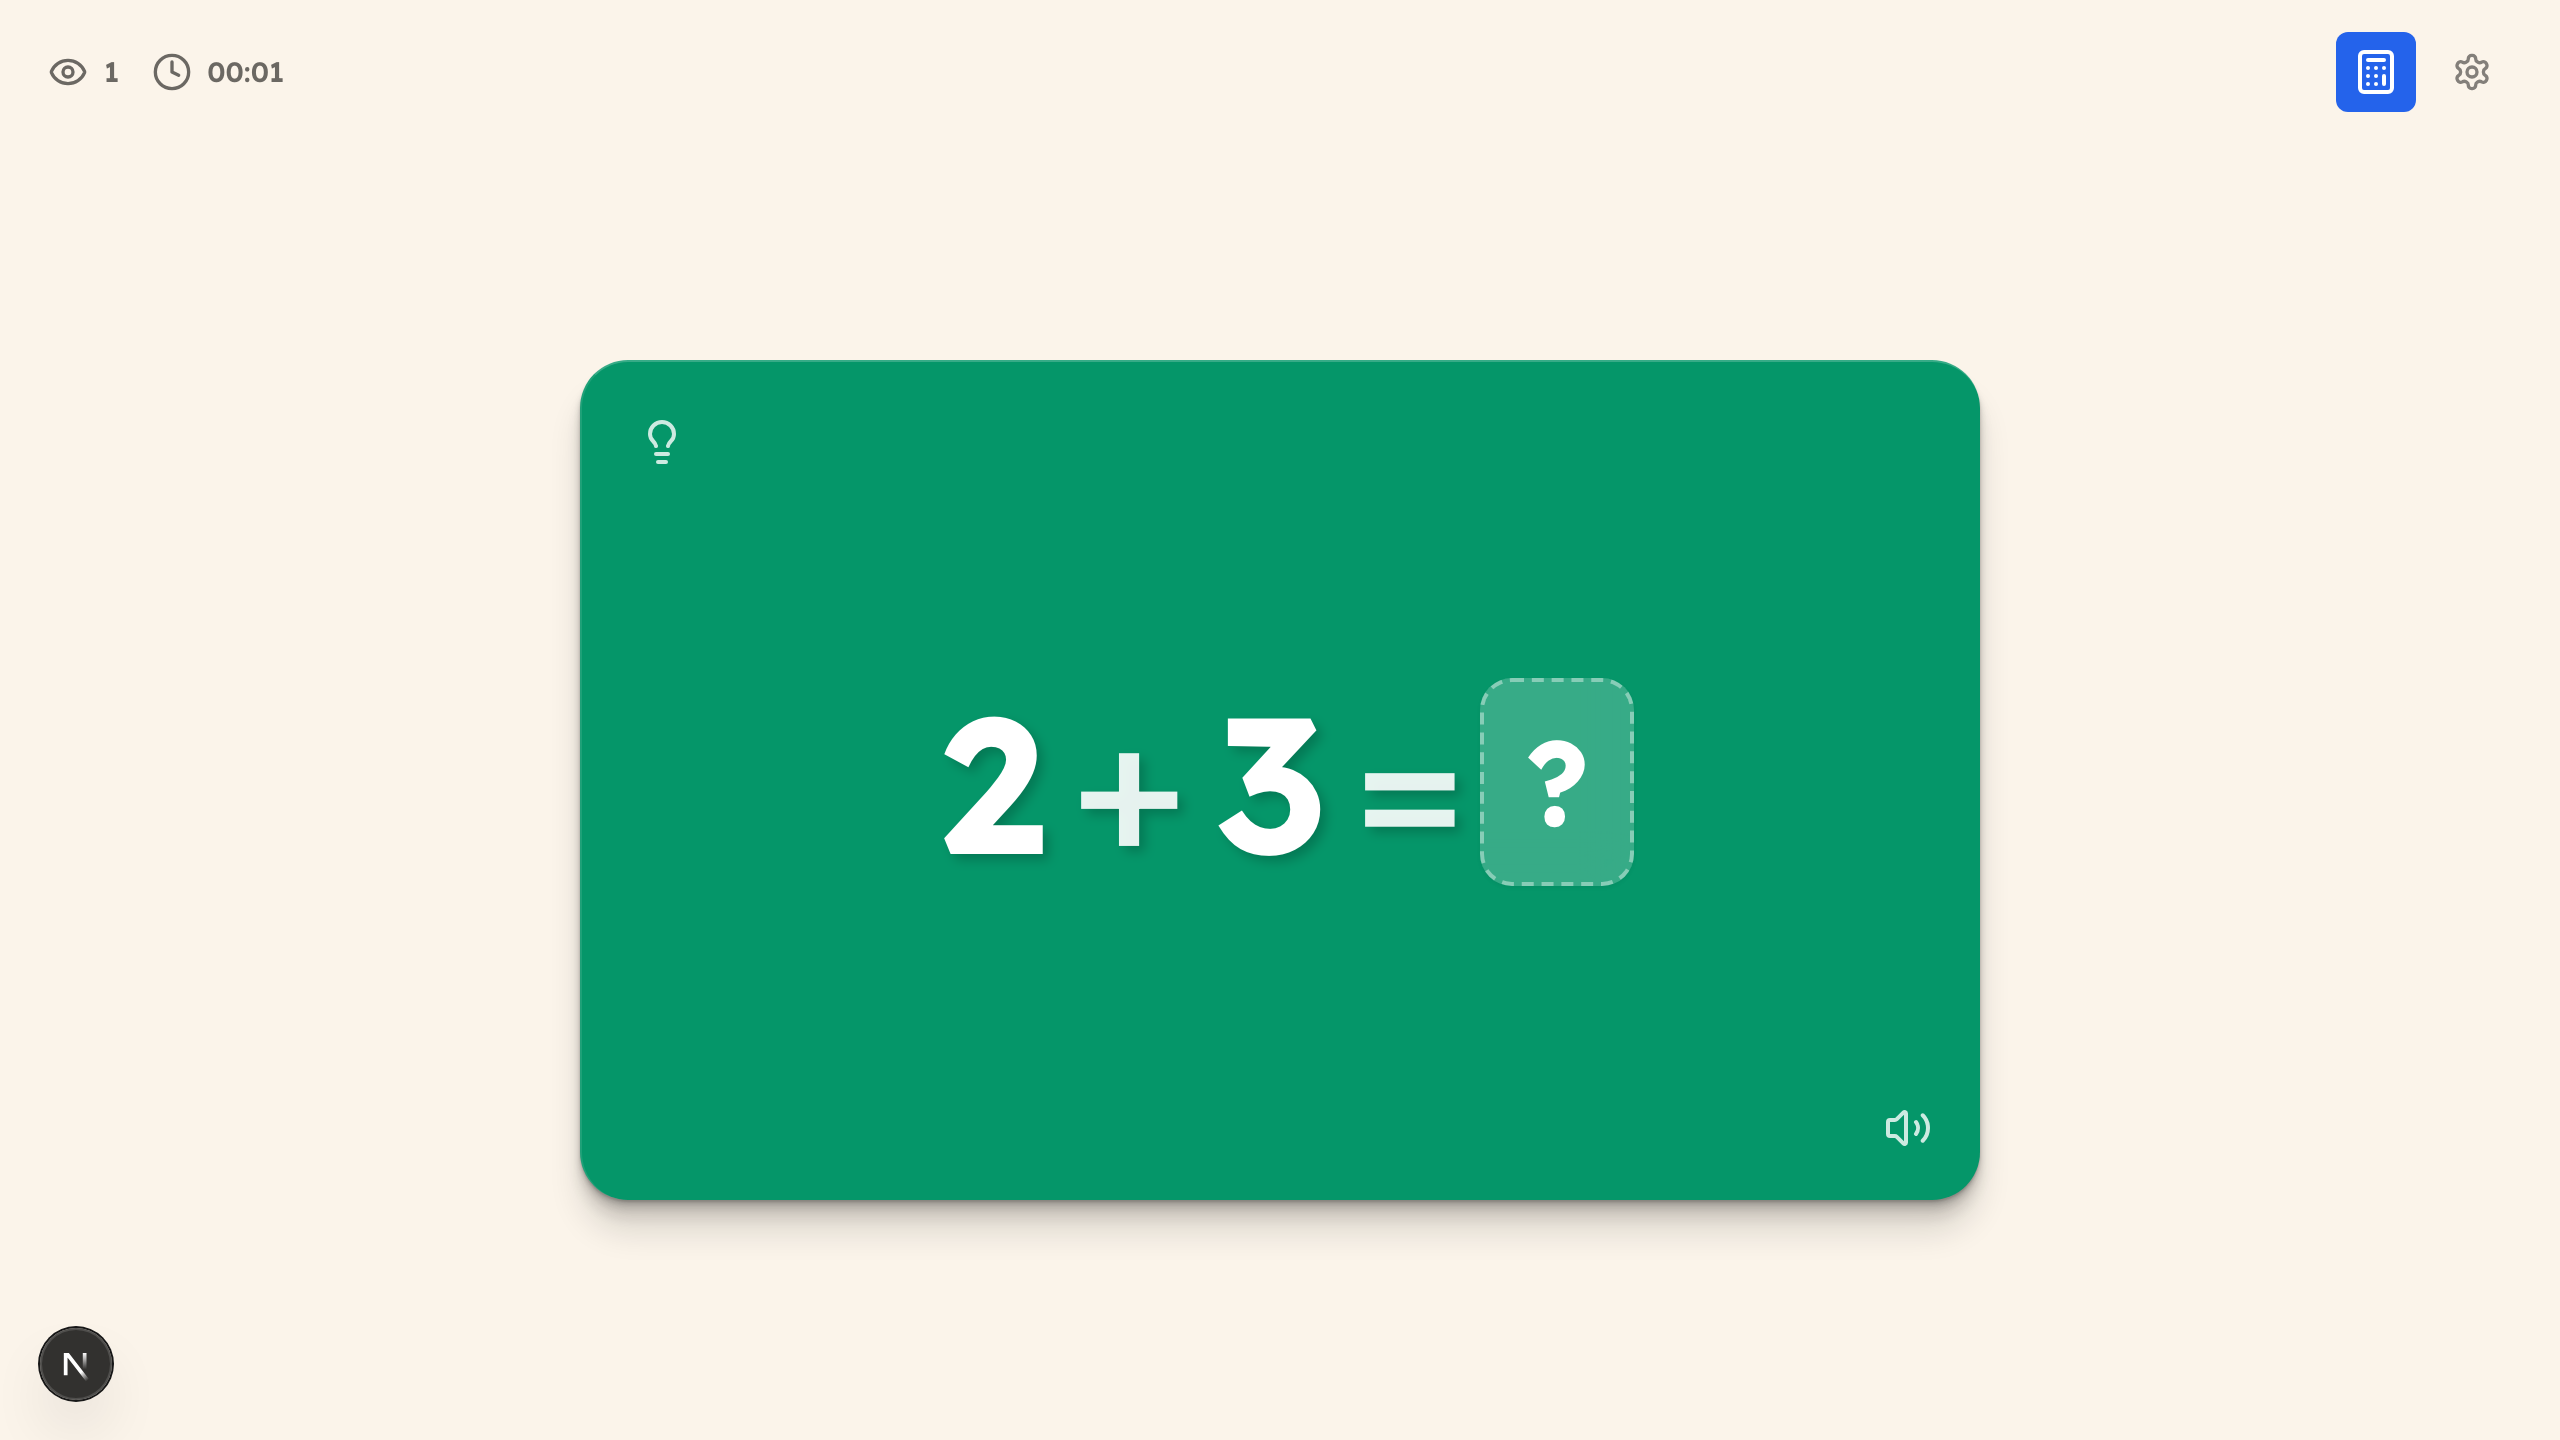
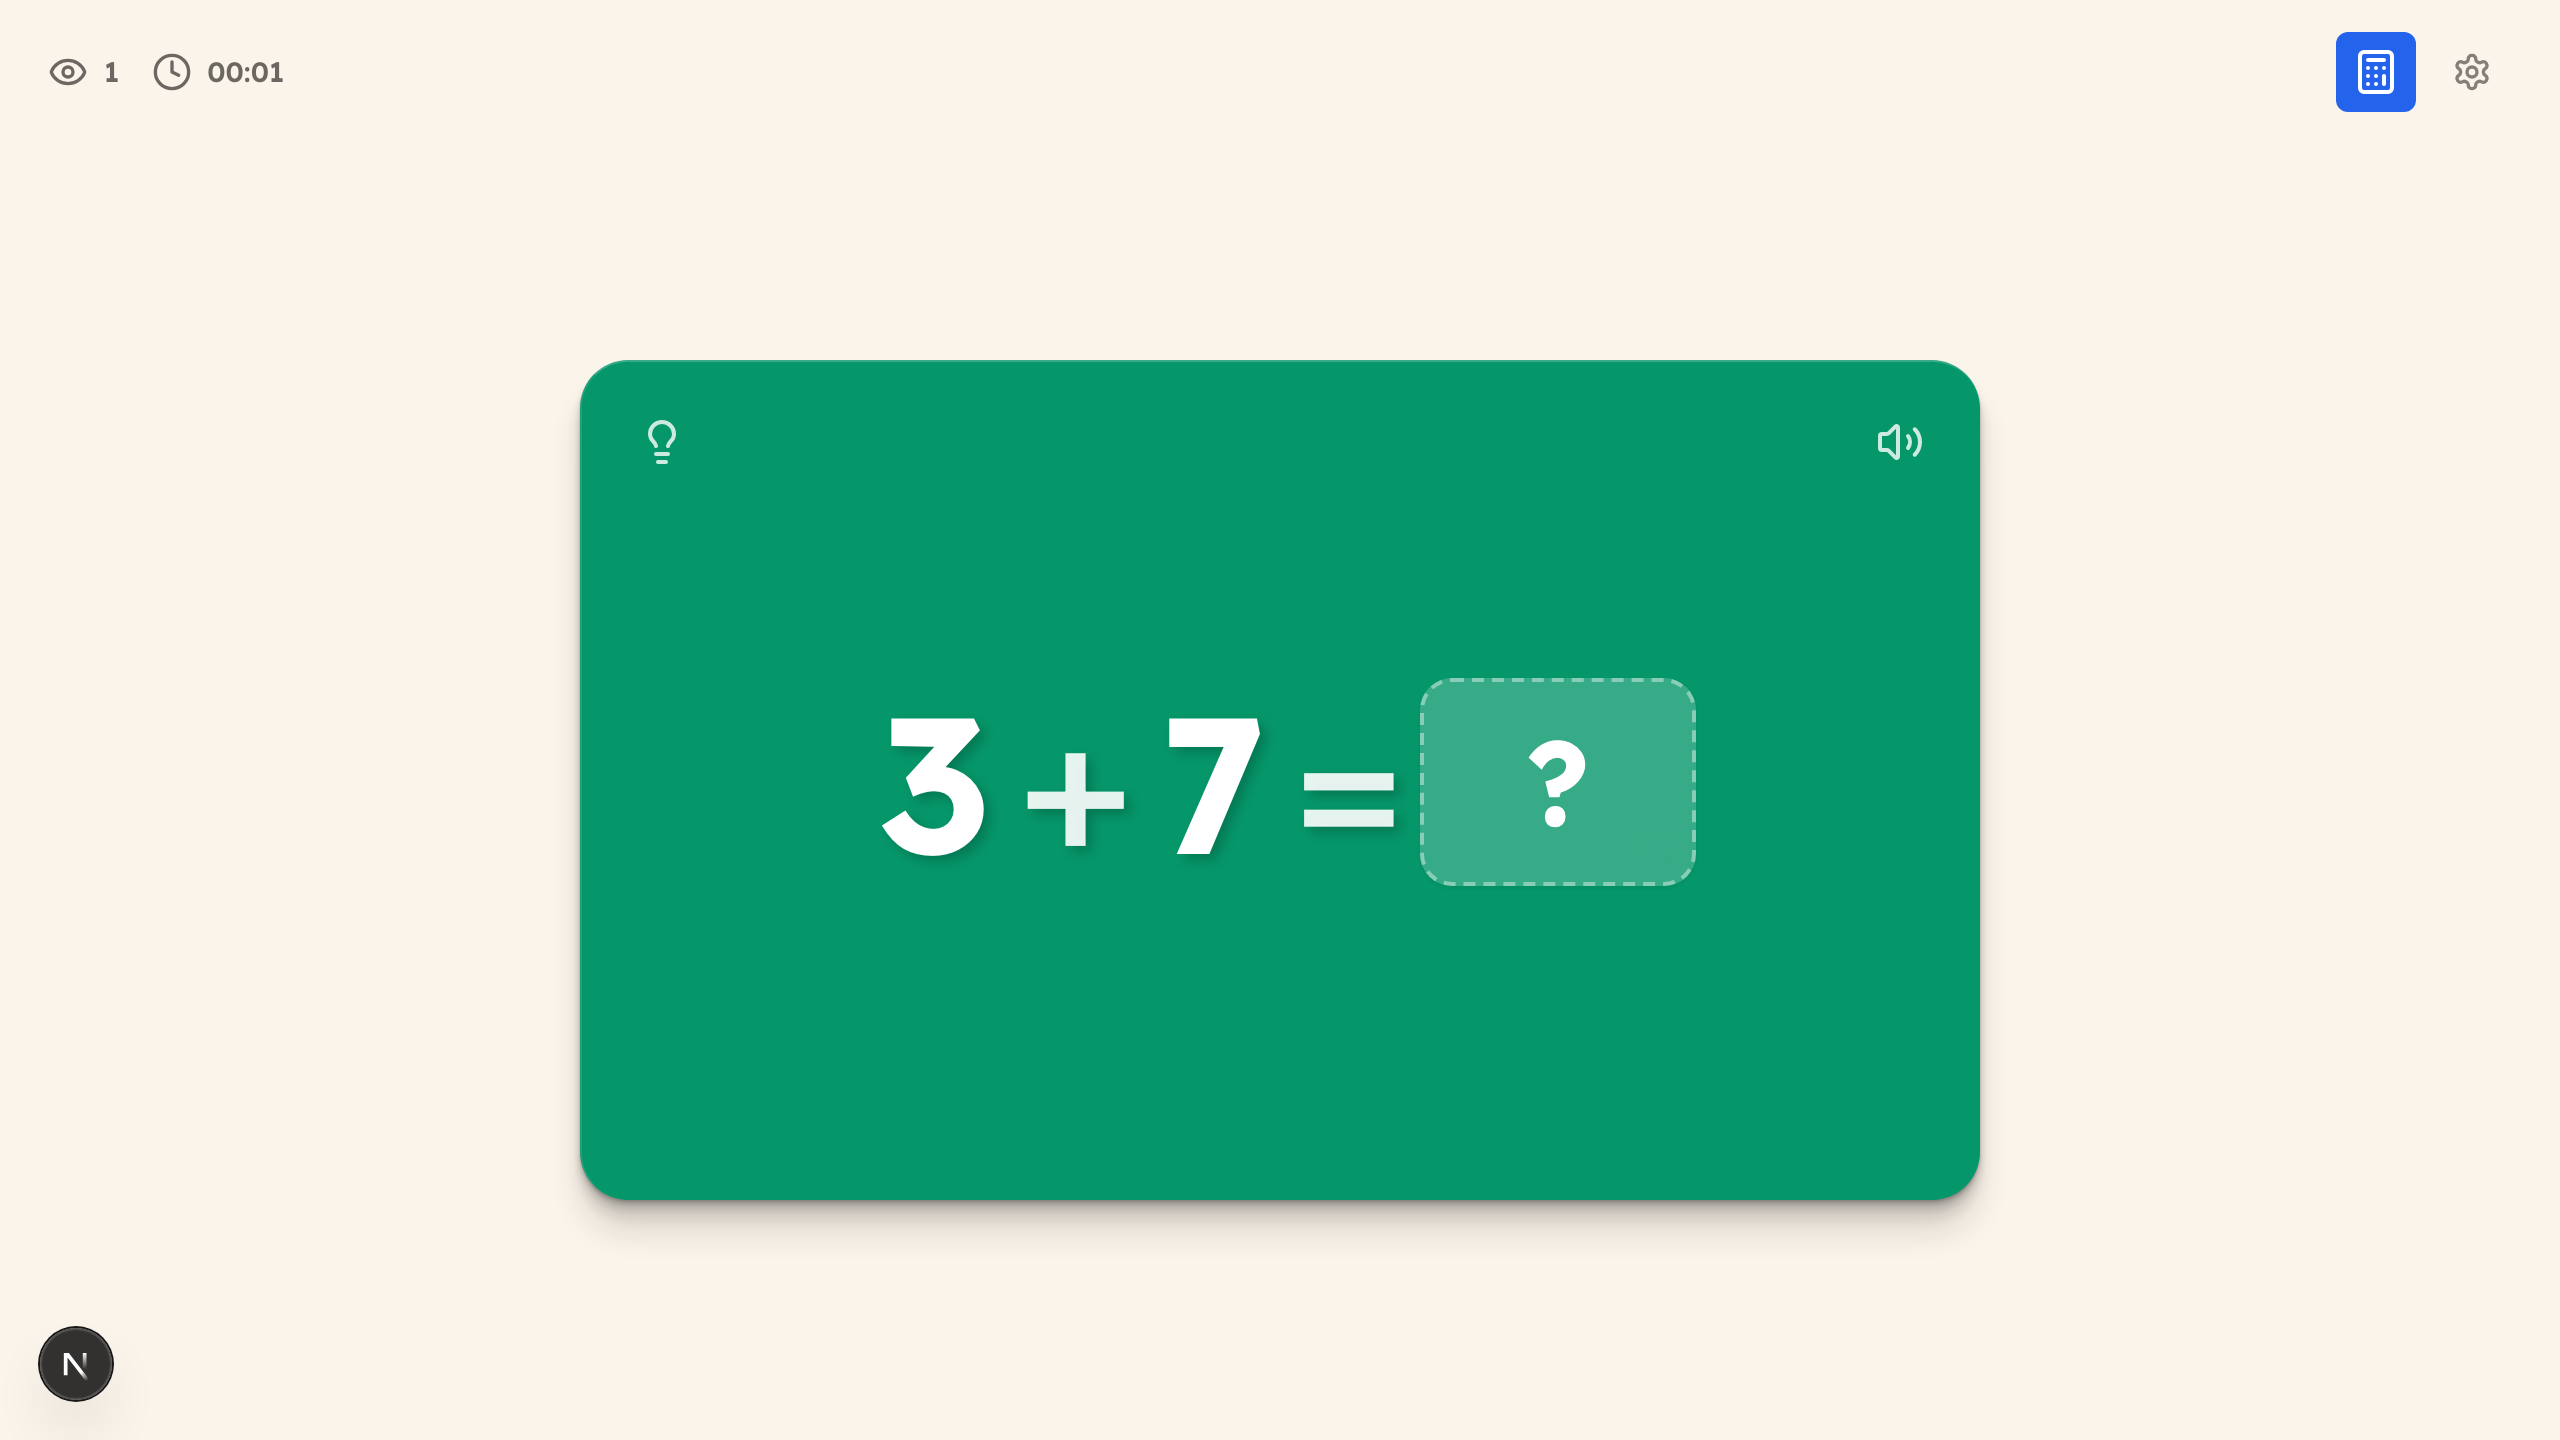
feat(deck-core): move volume button to top right of flash card and update screenshots

Changed region(s): [[0.3438, 0.4688, 0.5938, 0.625], [0.625, 0.4688, 0.6875, 0.625], [0.7188, 0.2812, 0.75, 0.3125]]

diff --git a/packages/deck-core/src/components/flash-card-shell.tsx b/packages/deck-core/src/components/flash-card-shell.tsx
@@ -93,6 +93,7 @@ export type FlashCardShellProps = {
   onCardTap?: () => void;
   onSpeak?: (e: React.MouseEvent) => void;
   showSpeaker?: boolean;
+  speakerPosition?: "top-right" | "bottom-right";
   speakerClassName?: string;
   speakerAriaLabel?: string;
   speakerSize?: "md" | "lg";
@@ -148,6 +149,7 @@ export function FlashCardShell({
   onCardTap,
   onSpeak,
   showSpeaker = true,
+  speakerPosition = "top-right",
   speakerClassName,
   speakerAriaLabel = "Listen to card",
   speakerSize = "lg",
@@ -168,6 +170,25 @@ export function FlashCardShell({
     onSpeak?.(e);
   };
 
+  const speakerButton =
+    showSpeaker && onSpeak ? (
+      <button
+        type="button"
+        className={cn(
+          "absolute z-40 inline-flex items-center justify-center text-white/80 hover:text-white hover:bg-white/20 rounded-full transition-all active:scale-95 outline-none pointer-events-auto",
+          speakerPosition === "top-right"
+            ? "top-3 right-3 sm:top-4 sm:right-4"
+            : "bottom-2.5 right-2.5 sm:bottom-3 sm:right-3",
+          speakerSize === "lg" ? "w-10 h-10 sm:w-12 sm:h-12" : "w-8 h-8 sm:w-10 sm:h-10",
+          speakerClassName
+        )}
+        onClick={handleSpeak}
+        aria-label={speakerAriaLabel}
+      >
+        <Volume2 className={cn(speakerSize === "lg" ? "w-5 h-5 sm:w-6 sm:h-6" : "w-4 h-4 sm:w-5 sm:h-5")} />
+      </button>
+    ) : null;
+
   return (
     <div
       className={cn(
@@ -180,25 +201,11 @@ export function FlashCardShell({
     >
       <div className={cn("p-3 sm:p-5 md:p-6 h-full w-full relative overflow-hidden", contentClassName)}>
         {topLeft}
-        {topRight}
+        {topRight || (speakerPosition === "top-right" ? speakerButton : null)}
         {bottomLeft}
         {frontContent || children}
         {backContent}
-        {bottomRight ||
-          (showSpeaker && onSpeak && (
-            <button
-              type="button"
-              className={cn(
-                "absolute bottom-2.5 right-2.5 sm:bottom-3 sm:right-3 inline-flex items-center justify-center text-white/80 hover:text-white hover:bg-white/20 rounded-full transition-transform active:scale-95 outline-none pointer-events-auto z-30",
-                speakerSize === "lg" ? "w-10 h-10 sm:w-12 sm:h-12" : "w-8 h-8 sm:w-10 sm:h-10",
-                speakerClassName
-              )}
-              onClick={handleSpeak}
-              aria-label={speakerAriaLabel}
-            >
-              <Volume2 className={cn(speakerSize === "lg" ? "w-5 h-5 sm:w-6 sm:h-6" : "w-4 h-4 sm:w-5 sm:h-5")} />
-            </button>
-          ))}
+        {bottomRight || (speakerPosition === "bottom-right" ? speakerButton : null)}
       </div>
     </div>
   );
